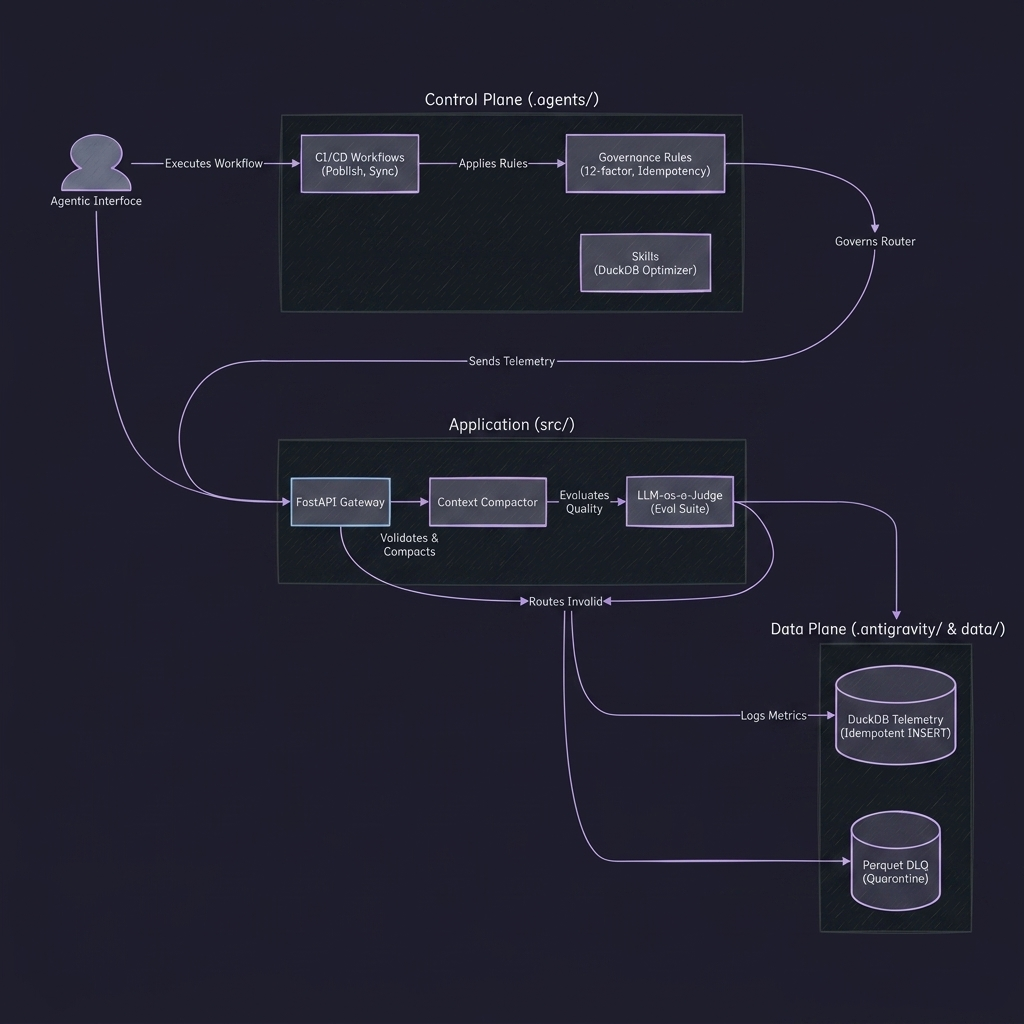
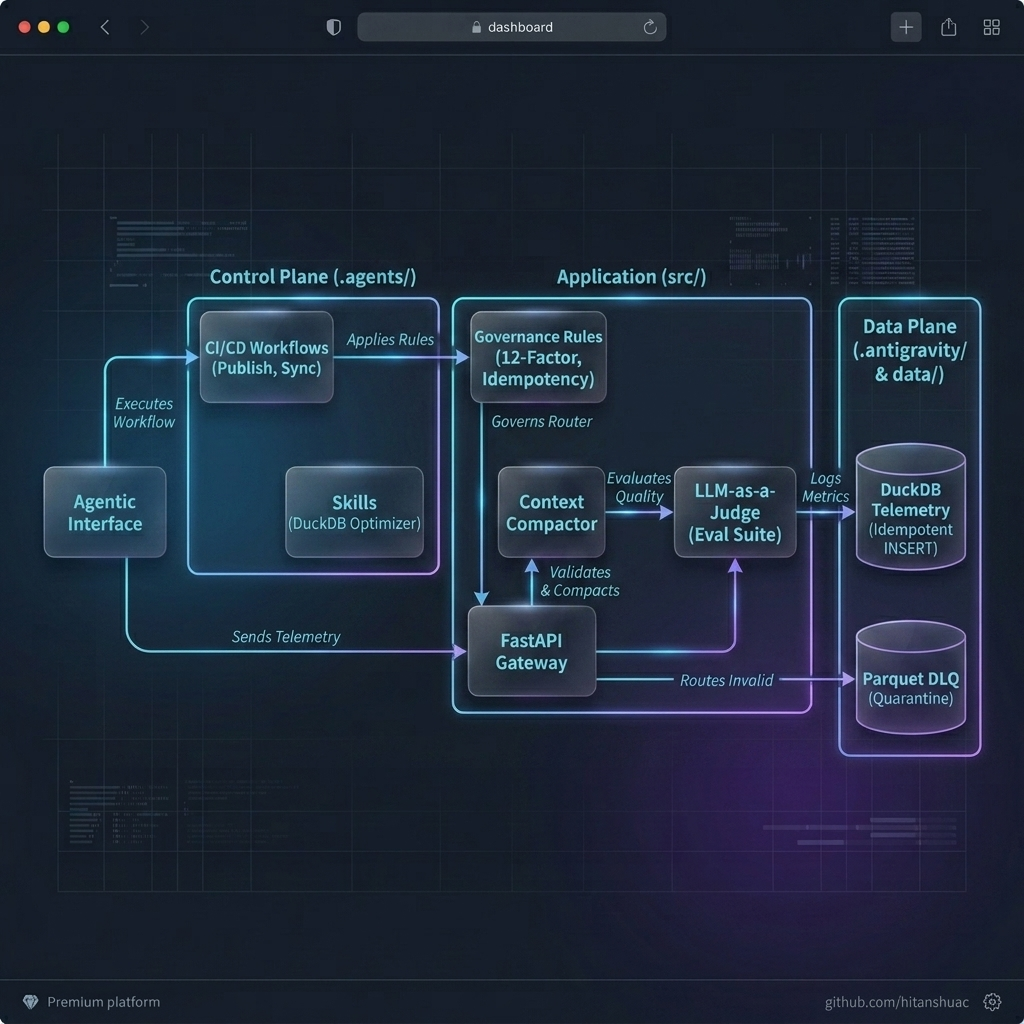
feat: enforce dual-image style reference and label enumeration in diagram generation rules

diff --git a/.agents/skills/diagram-generator/SKILL.md b/.agents/skills/diagram-generator/SKILL.md
@@ -27,12 +27,35 @@ The Base Agentic Environment supports two industry-standard tools. Choose the ri
 2. Select the appropriate tool.
 3. Generate the code (Python or D2).
 
-### The Strict AI Styling Pass (Aesthetics)
-Because raw programmatic diagrams often lack visual flair, you MUST apply a stylistic pass using the `generate_image` tool if the diagram is meant for recruiter-facing or showcase assets. 
+### The Strict AI Styling Pass (Dual-Audience Rule)
+Because raw programmatic diagrams lack visual flair, you MUST apply a stylistic pass using the `generate_image` tool for recruiter-facing or showcase assets.
 
-**CRITICAL RULE: STRICT SPELLING PRESERVATION.** AI image generators inherently struggle with spelling. You must force the AI to preserve text by using this exact prompt structure:
-1. Ensure the base programmatic diagram (`<diagram_name>_technical.png`) is generated.
-2. Pass the base PNG path directly into the `generate_image` tool via the `ImagePaths` parameter.
-3. Prompt the AI: *"Use the provided diagram as a strict structural base. Redraw it exactly node-for-node. The aesthetic MUST be a highly professional, clean, and understandable design in the style of handover_flow.png: sleek borders, clear layout, highly aesthetic. CRITICAL INSTRUCTION: You MUST preserve the exact spelling of all text inside the nodes. Do not alter or hallucinate a single character of text. Keep the structure 100% identical."*
-4. Overwrite or save the new image as `docs/assets/<diagram_name>_showcase.png`.
-5. Present `<diagram_name>_showcase.png` to recruiters and keep `<diagram_name>_technical.png` for engineers.
+**CRITICAL RULES:**
+1. **NEVER ask the AI to "redraw" a diagram loosely.** AI generators hallucinate spellings.
+2. **ALWAYS pass `docs/assets/handover_flow.png` as a direct style reference image** via `ImagePaths` alongside the technical base. This is the canonical aesthetic standard.
+3. **ALWAYS enumerate every node label explicitly in the prompt text.** Do not say "preserve the text." Instead, literally list every node name and connection label so the AI has zero ambiguity.
+
+**Execution Steps:**
+1. Generate the base programmatic diagram: `docs/assets/<diagram_name>_technical.png`.
+2. Read the `.d2` or `.py` source file to extract the exact list of node labels, cluster names, and edge labels.
+3. Call `generate_image` with **two images in `ImagePaths`**:
+   - `docs/assets/<diagram_name>_technical.png` (structural base)
+   - `docs/assets/handover_flow.png` (aesthetic style reference)
+4. Use this **exact prompt template**, filling in the specific node/edge labels from step 2:
+   ```
+   Create a highly professional architecture diagram. Use the SECOND provided image
+   (dark dashboard with glassmorphism nodes, neon cyan/purple accents) as the EXACT
+   aesthetic style reference. Use the FIRST provided image as the structural content
+   reference.
+
+   The diagram must contain these exact nodes and connections:
+   [LIST EVERY CLUSTER, NODE LABEL, AND EDGE LABEL HERE — SPELLED EXACTLY]
+
+   Style: Dark navy background (#0D1117), glassmorphism node boxes with subtle glow,
+   neon cyan and purple accent colors, clean enterprise dashboard aesthetic matching
+   the second reference image exactly. Include watermark "github.com/hitanshuac".
+
+   CRITICAL: Every word of text must be spelled EXACTLY as listed above.
+   ```
+5. Save the output as `docs/assets/<diagram_name>_showcase.png`.
+6. Present `<diagram_name>_showcase.png` to recruiters. Keep `<diagram_name>_technical.png` for engineers.

diff --git a/.agents/workflows/generate-diagrams.md b/.agents/workflows/generate-diagrams.md
@@ -16,11 +16,14 @@ A generalized, universal pipeline to scan the project for any programmatic diagr
 2. Iterate through any discovered `.py` diagram files. Run `python docs/<diagram_name>.py` (Output must be configured to generate `docs/assets/<diagram_name>_technical.png`).
 3. Verify that all base `<diagram_name>_technical.png` files exist and are non-zero bytes.
 
-### Phase 3: The Showcase Styling Overlay
+### Phase 3: The Showcase Styling Pass (Dual-Audience Rule)
 1. Per the `.agents/skills/diagram-generator/SKILL.md` rules, iterate through the list of generated `_technical.png` files.
-2. Pass each `docs/assets/<diagram_name>_technical.png` into the `generate_image` tool.
-3. Use the exact strict-spelling aesthetic prompt defined in `SKILL.md` to have the AI redraw the diagram.
-4. Save the AI-styled output as `docs/assets/<diagram_name>_showcase.png`.
+2. For each diagram, read its `.d2` or `.py` source to extract every node label, cluster name, and edge label.
+3. Call `generate_image` with **two images in `ImagePaths`**:
+   - `docs/assets/<diagram_name>_technical.png` (structural content base)
+   - `docs/assets/handover_flow.png` (canonical aesthetic style reference)
+4. Use the exact prompt template from `SKILL.md`, **explicitly listing every label** extracted in step 2.
+5. Save the AI-styled output as `docs/assets/<diagram_name>_showcase.png`.
 
 ### Phase 4: Verification & Update
 1. Ensure `README.md` correctly references both the `_showcase` and `_technical` versions of core architecture diagrams where applicable.